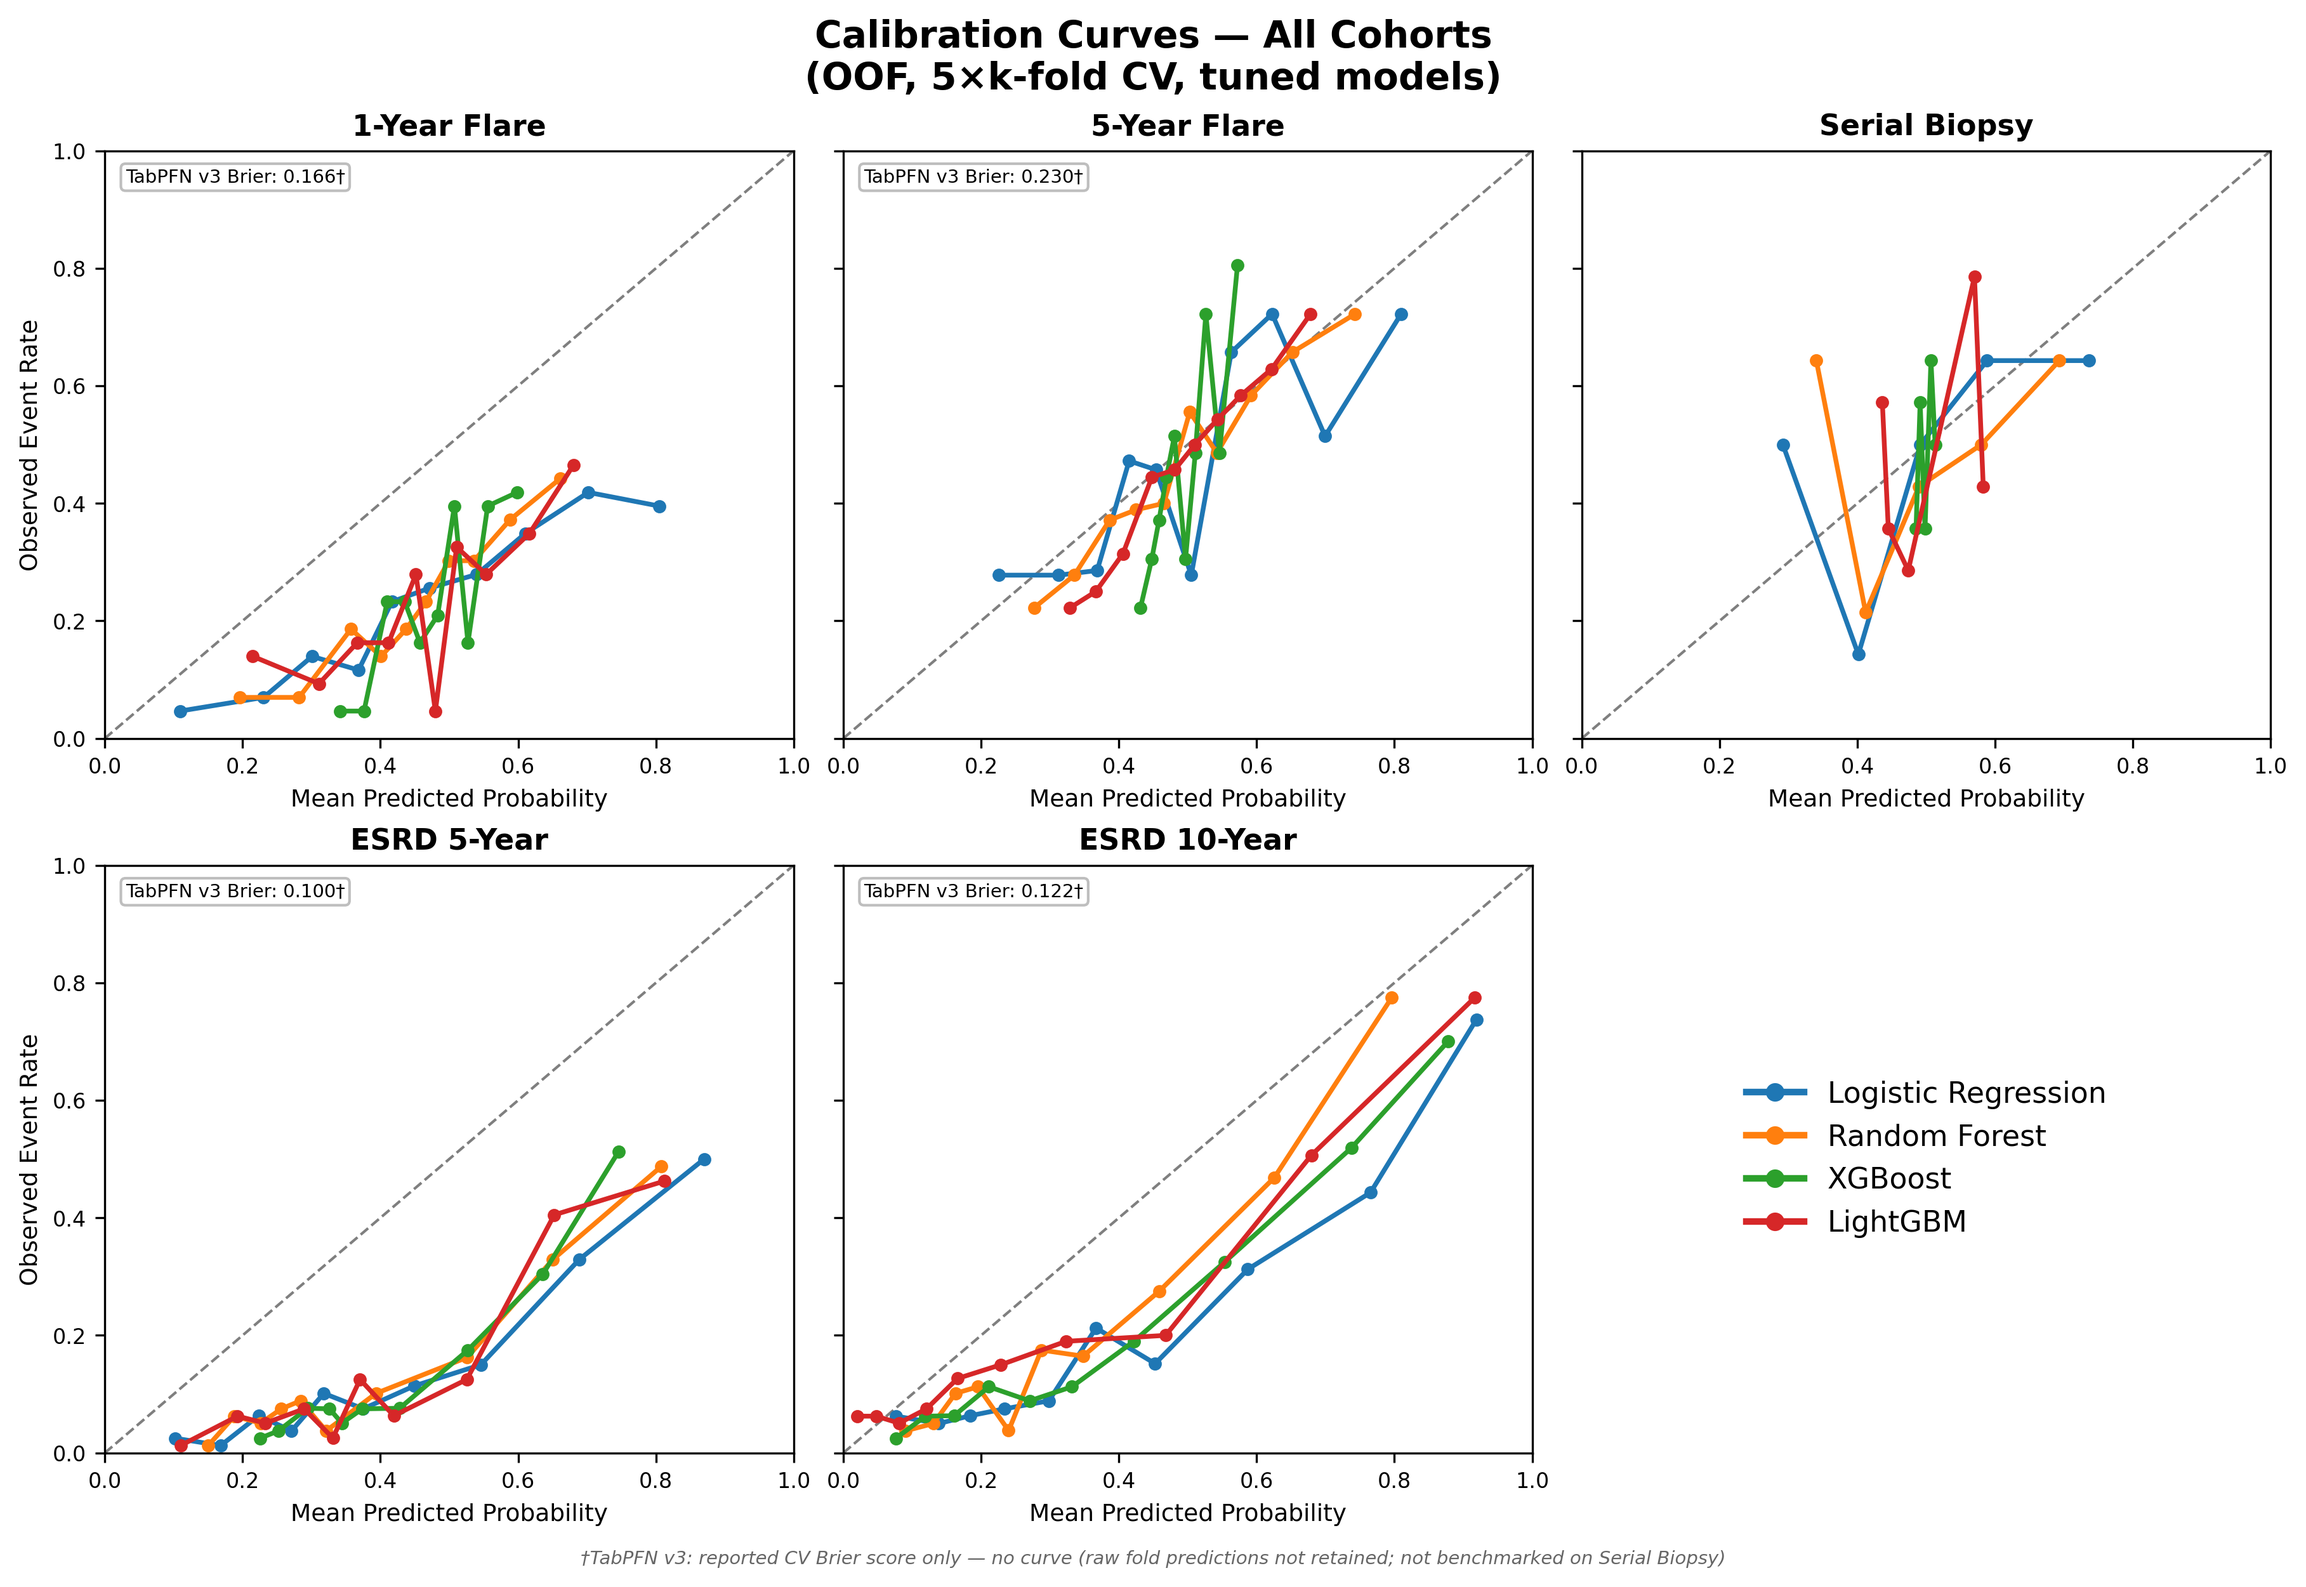
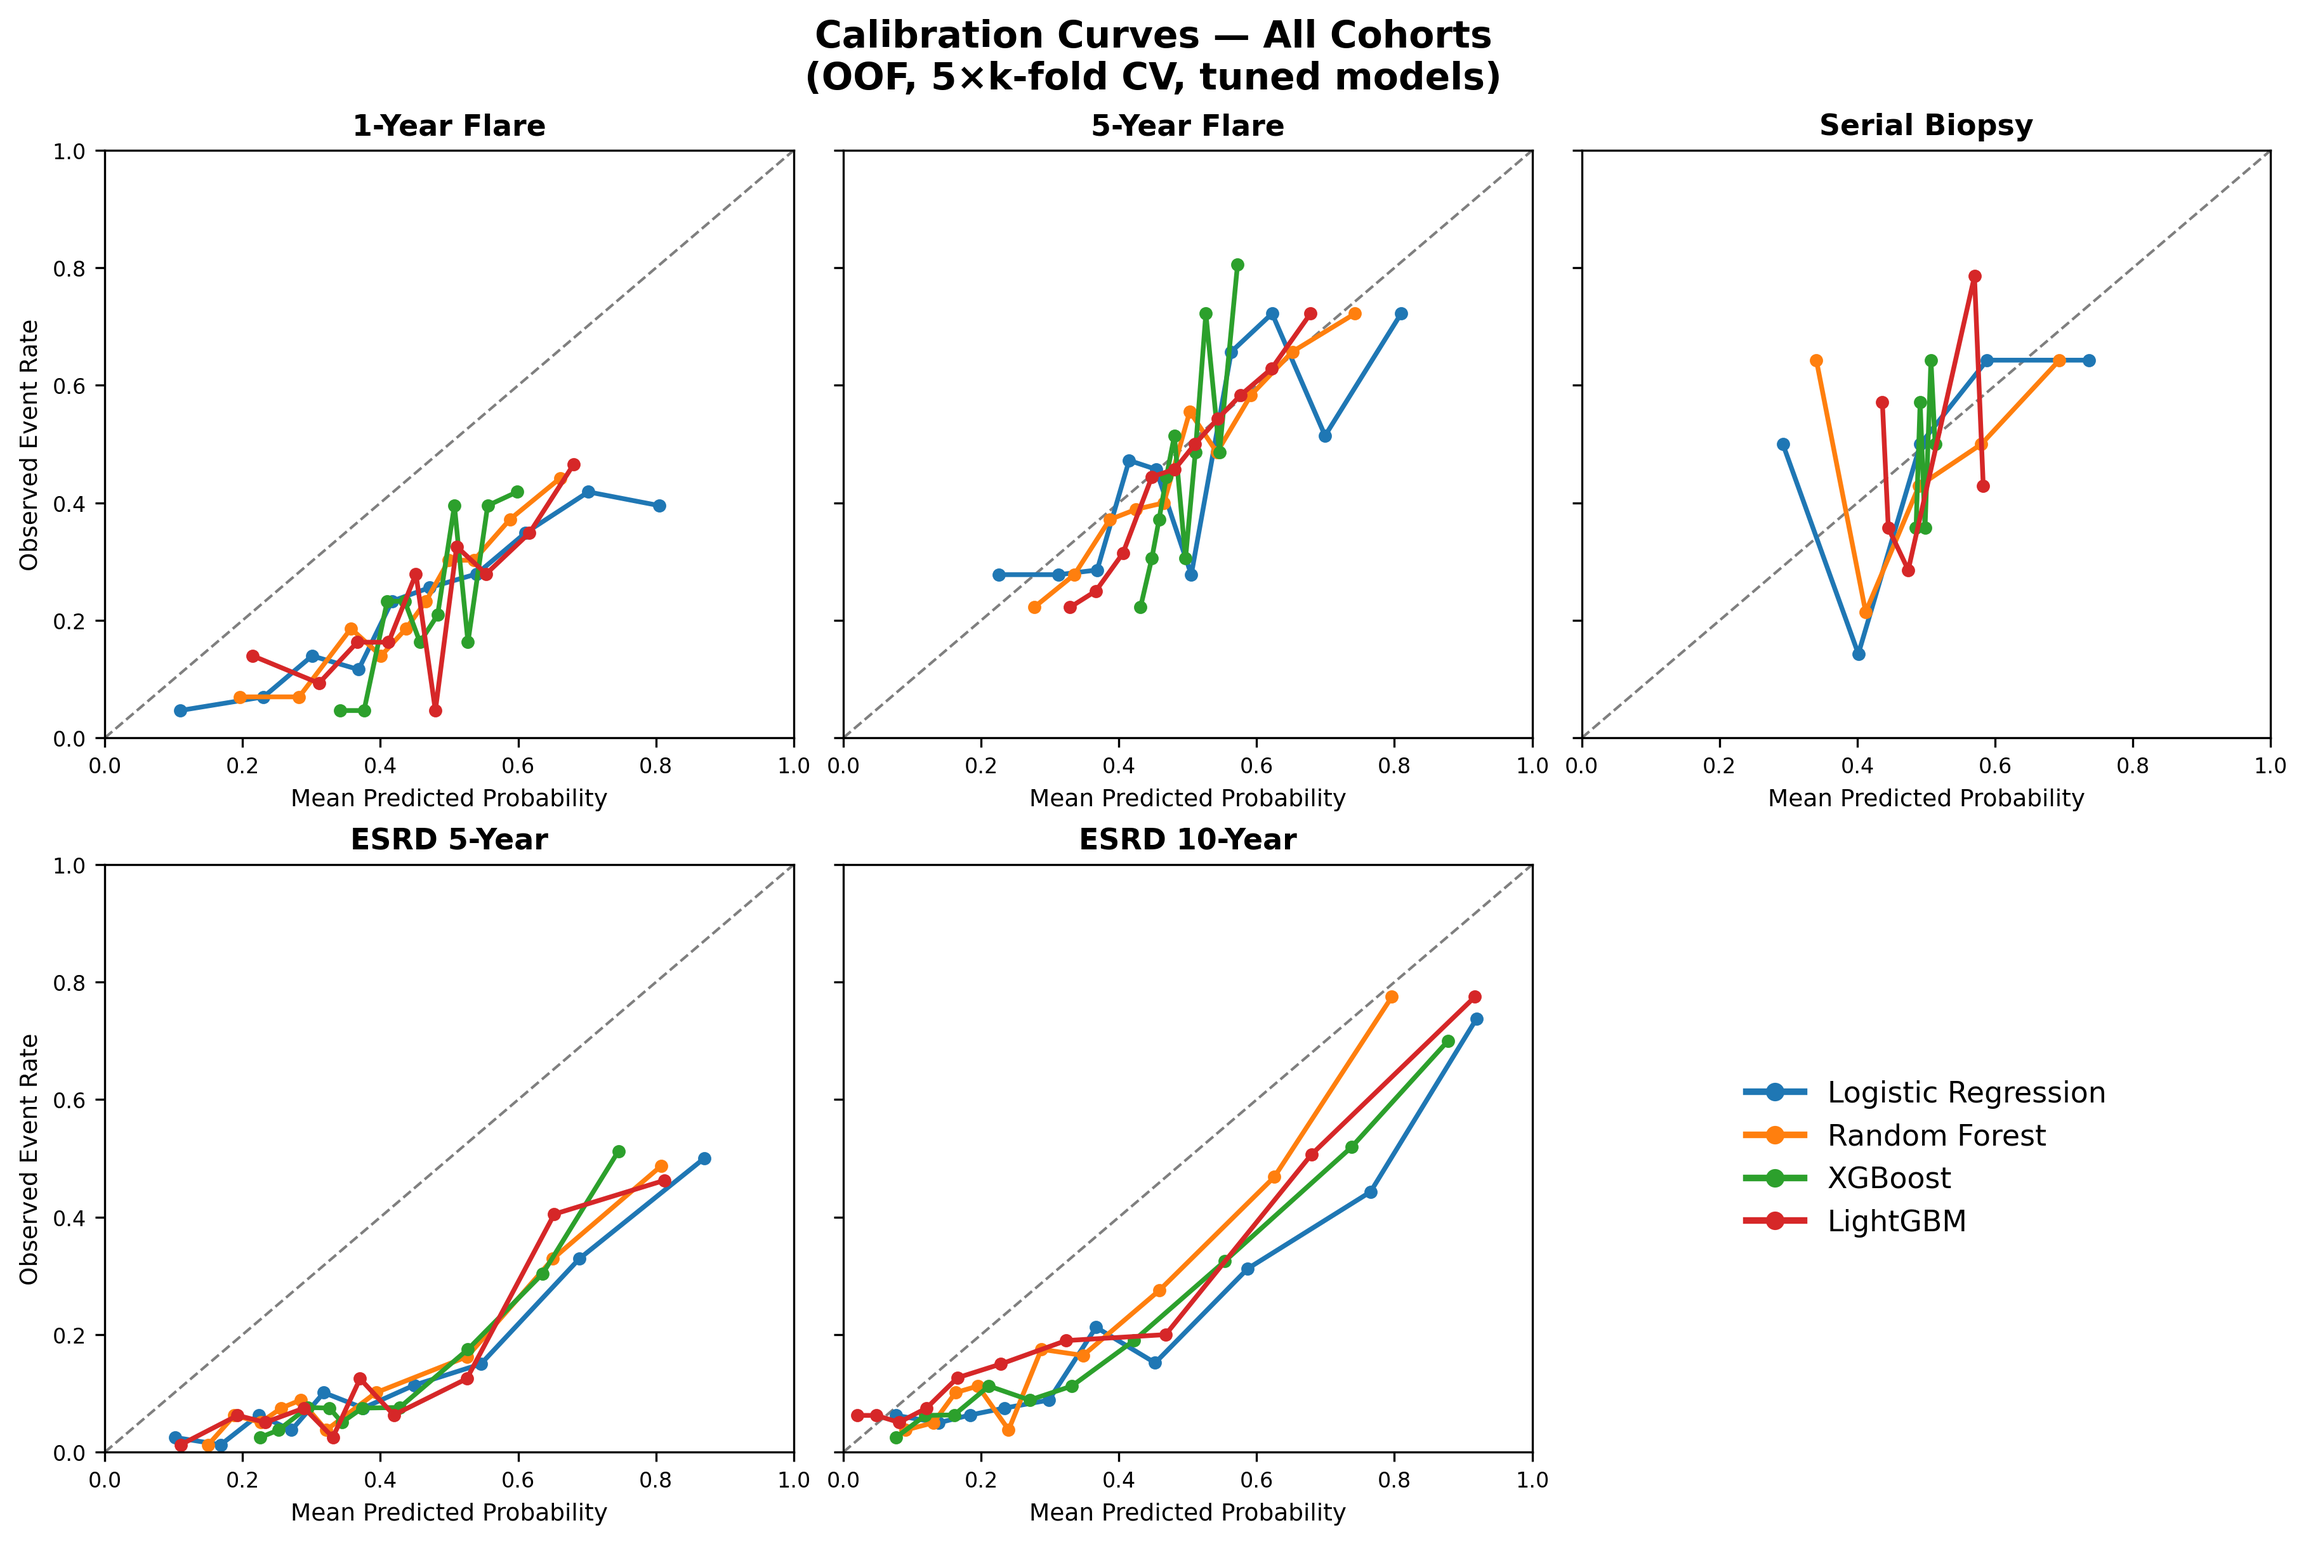
Remove TabPFN v3 reference annotations from ROC/calibration figures
Per request - the four main classifiers (LR, RF, XGBoost, LightGBM) only.
TabPFN v3 comparison remains in Methods/Results docs and Table 2.

diff --git a/src/16_roc_calibration_plots.py b/src/16_roc_calibration_plots.py
@@ -12,13 +12,6 @@ predictions, then plots two separate figures, each a 2x3 grid (5 cohort panels
   - Calibration curves (OOF probability decile vs. observed event rate,
     45-degree reference line)
 
-TabPFN v3 is shown as a reported reference (AUROC / Brier text) rather than a
-drawn curve: its raw per-fold predictions were not retained in
-outputs/tabpfn_v3_checkpoint.pkl (only aggregate metrics survived), so no
-curve can be plotted without re-querying the paid hosted API. Not benchmarked
-on the serial biopsy cohort (outputs/tabpfn_v3_all_cohorts.xlsx has no sheet
-for it), so it is omitted from that panel only.
-
 Uses the project's standard model colour scheme (src/1_year/06_modelling_1yr.py,
 src/5_year/05_modelling_5yr.py, src/5_year/11_serial_modelling_5yr.py):
   Logistic Regression #1f77b4, Random Forest #ff7f0e, XGBoost #2ca02c,
@@ -58,16 +51,6 @@ MODEL_COLORS = {
     "LightGBM":            "#d62728",
 }
 MODEL_ORDER = list(MODEL_COLORS)
-
-# TabPFN v3: reported reference values only (see module docstring for why no
-# curve is drawn). None = not benchmarked on that cohort.
-TABPFN_V3 = {
-    "1-Year Flare":  {"auroc": 0.684, "brier": 0.166},
-    "5-Year Flare":  {"auroc": 0.671, "brier": 0.230},
-    "Serial Biopsy": None,
-    "ESRD 5-Year":   {"auroc": 0.796, "brier": 0.100},
-    "ESRD 10-Year":  {"auroc": 0.817, "brier": 0.122},
-}
 
 
 def make_rf(p):
@@ -253,10 +236,6 @@ for i, (c, res) in enumerate(zip(cohorts, all_results)):
         ax.plot(r["fpr"], r["tpr"], color=MODEL_COLORS[name], lw=1.8)
         annot_lines.append(f"{name}: {r['cv_auroc']:.3f}")
 
-    tabpfn = TABPFN_V3[c["label"]]
-    if tabpfn is not None:
-        annot_lines.append(f"TabPFN v3: {tabpfn['auroc']:.3f}†")
-
     ax.text(0.03, 0.97, "\n".join(annot_lines), transform=ax.transAxes,
             fontsize=7, va="top", ha="left",
             bbox=dict(boxstyle="round,pad=0.25", facecolor="white", edgecolor="0.7", alpha=0.85))
@@ -277,8 +256,6 @@ legend_handles = [plt.Line2D([0], [0], color=MODEL_COLORS[name], lw=2.5) for nam
 legend_ax.legend(legend_handles, MODEL_ORDER, loc="center", fontsize=11, frameon=False)
 
 fig_roc.suptitle("ROC Curves — All Cohorts\n(5×k-fold CV, tuned models)", fontsize=14, fontweight="bold")
-fig_roc.text(0.5, -0.02, "†TabPFN v3: reported CV AUROC only — no curve (raw fold predictions not retained; "
-             "not benchmarked on Serial Biopsy)", ha="center", fontsize=7, style="italic", color="0.4")
 fig_roc.savefig(f"{FIG_DIR}/roc_all_cohorts.png", dpi=300, bbox_inches="tight")
 plt.close(fig_roc)
 print(f"\nSaved: {FIG_DIR}/roc_all_cohorts.png")
@@ -300,12 +277,6 @@ for i, (c, res) in enumerate(zip(cohorts, all_results)):
             frac_pos, mean_pred = calibration_curve(c["y"], oof, n_bins=max(3, c["n_bins"] // 2), strategy="quantile")
         ax.plot(mean_pred, frac_pos, "o-", color=MODEL_COLORS[name], lw=1.8, markersize=4)
 
-    tabpfn = TABPFN_V3[c["label"]]
-    if tabpfn is not None:
-        ax.text(0.03, 0.97, f"TabPFN v3 Brier: {tabpfn['brier']:.3f}†", transform=ax.transAxes,
-                fontsize=7, va="top", ha="left",
-                bbox=dict(boxstyle="round,pad=0.25", facecolor="white", edgecolor="0.7", alpha=0.85))
-
     ax.set_xlim([0, 1]); ax.set_ylim([0, 1])
     ax.set_title(c["label"], fontsize=11, fontweight="bold")
     ax.set_xlabel("Mean Predicted Probability", fontsize=9)
@@ -322,8 +293,6 @@ legend_handles = [plt.Line2D([0], [0], color=MODEL_COLORS[name], lw=2.5, marker=
 legend_ax.legend(legend_handles, MODEL_ORDER, loc="center", fontsize=11, frameon=False)
 
 fig_cal.suptitle("Calibration Curves — All Cohorts\n(OOF, 5×k-fold CV, tuned models)", fontsize=14, fontweight="bold")
-fig_cal.text(0.5, -0.02, "†TabPFN v3: reported CV Brier score only — no curve (raw fold predictions not "
-             "retained; not benchmarked on Serial Biopsy)", ha="center", fontsize=7, style="italic", color="0.4")
 fig_cal.savefig(f"{FIG_DIR}/calibration_all_cohorts.png", dpi=300, bbox_inches="tight")
 plt.close(fig_cal)
 print(f"Saved: {FIG_DIR}/calibration_all_cohorts.png")
